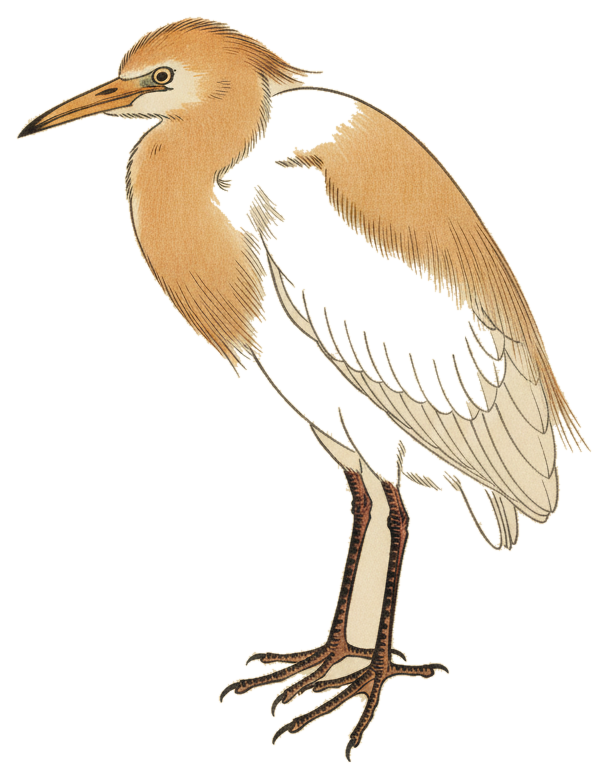
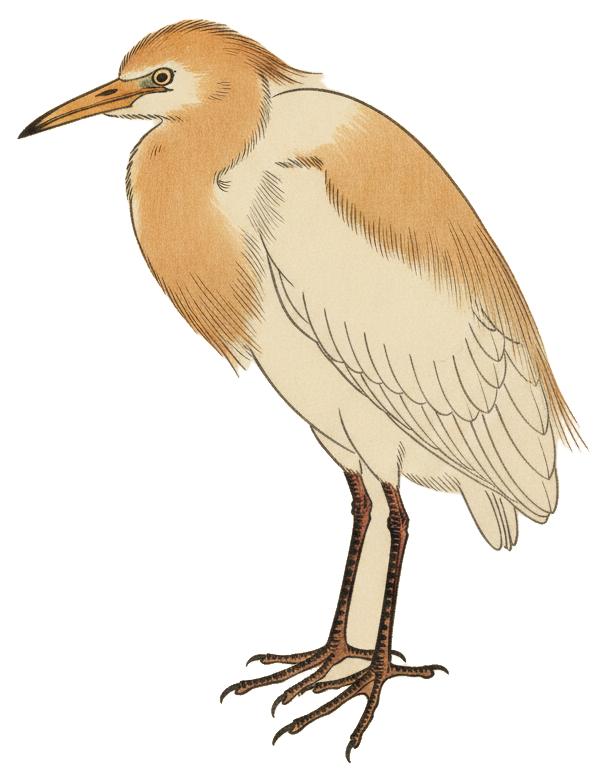
Guard the outline cutout with a coverage check
Reported: transparent body on the perched Cattle Egret. Confirmed - a
regression I introduced with the outline silhouette one commit ago.

What happened
-------------
The ink contour on that illustration has a gap. The border-seeded fill leaked
through it and ate the bird's white breast, belly and wing panel; only the
darker buff areas held the line. The result was a moth-eaten bird whose total
area still looked plausible, so the area-ratio guard passed it at 0.72, well
inside its [0.5, 2.0] band.

Area cannot see this failure. Coverage can: the outline kept only 67% of what
the matting model called bird, where every sound cut kept 95-100%.

  anthus-novaeseelandiae  1.000   outline
  malurus-lamberti-2      0.999   outline
  malurus-lamberti        0.996   outline
  bubulcus-ibis-2         0.993   outline
  ardea-intermedia-2      0.953   outline (correctly trims the neck/wing pocket)
  bubulcus-ibis           0.674   REJECTED -> matte + colour repair

build_alpha now requires >=90% coverage. Trimming genuine over-inclusion is
still allowed - that is the outline being right and the matte being wrong -
but losing a tenth of the body means a leak. On rejection it falls back to
the matting model plus the raise-only colour repair, which cannot restore
transparency but also cannot punch holes: the safe direction to fail in.

Review process, corrected
-------------------------
This slipped through because it was reviewed in a 340px contact-sheet cell,
[…]

diff --git a/avian/frontend/apt.js b/avian/frontend/apt.js
@@ -2,7 +2,8 @@
   var PLACEHOLDER = [{ "sci": "Calypte anna", "com": "Anna's Hummingbird", "featured": true }, { "sci": "Passer domesticus", "com": "House Sparrow" }, { "sci": "Haemorhous mexicanus", "com": "House Finch" }, { "sci": "Turdus migratorius", "com": "American Robin" }, { "sci": "Zenaida macroura", "com": "Mourning Dove" }, { "sci": "Spinus psaltria", "com": "Lesser Goldfinch" }, { "sci": "Zonotrichia leucophrys", "com": "White-crowned Sparrow" }, { "sci": "Aphelocoma californica", "com": "California Scrub-Jay" }, { "sci": "Mimus polyglottos", "com": "Northern Mockingbird" }, { "sci": "Sayornis nigricans", "com": "Black Phoebe" }, { "sci": "Larus occidentalis", "com": "Western Gull" }, { "sci": "Corvus brachyrhynchos", "com": "American Crow" }];
   // Bumped whenever the offline sketch build changes, so the browser
   // doesn't keep a stale cache after we regenerate the sketches.
-  var SKETCH_VERSION = 'act4'; // act4: silhouettes taken from the ink outline, fixing both holes in pale bodies and
+  var SKETCH_VERSION = 'act5'; // act5: outline fill guarded by a coverage check - it had leaked through a gap in the
+  // Cattle Egret's contour and eaten its white breast. act4: silhouettes from the ink outline, fixing holes in pale bodies and
   // background wrongly kept as body. act3: alpha repair - holes through pale bodies (chests of
   // the three flight-pose egrets/fairywren). act2: +5 ACT gap species (403 total) - Australasian Pipit,
   // Cattle Egret, Variegated Fairywren, Intermediate Egret, Barn Owl. act1: AU-VIC bundle (398 species)
@@ -13,7 +14,7 @@
   // equivalent to a global cache purge for /api/img. (caches.default
   // .delete() in the worker only affects ONE colo at a time, so a
   // versioned URL is the only reliable way to invalidate everywhere.)
-  var IMG_VERSION = 'act4'; // act4: outline-based re-cut. act3: pale-body alpha repair re-cut. act2: +5 ACT gap species; Intermediate Egret and Australasian Pipit flight
+  var IMG_VERSION = 'act5'; // act5: Cattle Egret re-cut. act4: outline-based re-cut. act3: pale-body alpha repair re-cut. act2: +5 ACT gap species; Intermediate Egret and Australasian Pipit flight
   // pose re-rendered. act1: every illustration replaced with the AU-VIC set, so drop every cached copy.
 
   // ---- Sliding pill helper ----

diff --git a/avian/scripts/cutout.py b/avian/scripts/cutout.py
@@ -68,10 +68,20 @@ def ink_silhouette(rgb, margin: float = 8.0):
 def build_alpha(rgb, matte, margin: float = 8.0, tol: float = 42.0):
     """Final alpha: outline silhouette when it is plausible, else matte repair.
 
-    The outline fill is trusted only if it agrees with the matting model on
-    overall area. If the ink contour has a gap the fill leaks into the body
-    and collapses to a few strokes, which the area check catches; in that
-    case we fall back to the matting model plus the raise-only colour repair.
+    The outline fill is trusted only if it keeps nearly all of what the
+    matting model called bird. Where the ink contour has a gap, the fill leaks
+    through it and eats whatever pale plumage lies beyond - a cattle egret's
+    white breast and belly, say, while the darker buff areas hold the line.
+    The result is a moth-eaten bird whose *total area* can still look
+    reasonable, so area alone does not catch it: coverage does.
+
+    Trimming genuine over-inclusion is expected and allowed (the outline is
+    right and the matte was wrong), so the bar is set to tolerate a modest
+    loss but reject a leak. Measured on this library: sound cuts keep
+    0.95-1.00 of the matte silhouette, a leak kept 0.67.
+
+    On rejection we fall back to the matting model plus the raise-only colour
+    repair, which cannot restore transparency but also cannot punch holes.
 
     Returns (alpha, mode, filled, cleared).
     """
@@ -80,11 +90,14 @@ def build_alpha(rgb, matte, margin: float = 8.0, tol: float = 42.0):
     from PIL import Image, ImageFilter
 
     bird = ink_silhouette(rgb, margin)
-    matte_area = int((matte > 127).sum())
+    matte_mask = matte > 127
+    matte_area = int(matte_mask.sum())
     ratio = bird.sum() / max(matte_area, 1)
-    if not (0.5 <= ratio <= 2.0):
+    coverage = float((bird & matte_mask).sum()) / max(matte_area, 1)
+    if coverage < 0.90 or ratio > 2.0:
         alpha, filled = repair_alpha(rgb, matte, tol)
-        return alpha, f"matte+repair (outline ratio {ratio:.2f})", filled, 0
+        return (alpha, f"matte+repair (outline coverage {coverage:.2f})",
+                filled, 0)
 
     filled = int(((matte < 128) & bird).sum())
     cleared = int(((matte > 128) & ~bird).sum())

diff --git a/RECONCILIATION.md b/RECONCILIATION.md
@@ -6,7 +6,7 @@ Canberra / Australian Capital Territory deployment of
 illustration bundle.
 
 **Status: complete. 5 gap species generated, cut out, verified, merged and
-mask-rebuilt. 403 species / 806 illustrations, `act4`.**
+mask-rebuilt. 403 species / 806 illustrations, `act5`.**
 
 **Gemini spend: ~$0.48.** 12 images generated (10 initial + 2 regenerations)
 at 1290 output tokens each, $30/1M → $0.464, plus ~23 verification vision
@@ -453,6 +453,17 @@ for it". The defect was caught on visual review over a contrasting ground.
 **Compositing over saturated magenta is the check that works**; alpha
 statistics alone are not sufficient.
 
+And it has to be done at **full resolution**. The Cattle Egret leak above was
+reviewed in a 340 px contact-sheet cell and passed, because at that scale the
+holes blend into the surrounding brushwork. It was obvious the moment the
+illustration was viewed at its native size. Contact sheets are for spotting
+*which* image to look at, never for clearing one.
+
+An automated enclosed-hole count (`binary_fill_holes(alpha) & ~alpha`) is
+useful as a pointer but is not a verdict either: it flags legitimate
+anatomy — the space between a heron's leg and its belly is genuinely enclosed
+background and correctly transparent. Every flag needs an eye on it.
+
 #### The second defect: background kept as body
 
 A colour-based repair fixed the holes but could not fix the mirror-image
@@ -483,12 +494,30 @@ This is correct precisely where colour fails: the outline is unambiguous even
 when plumage and ground are the same colour. It fixes both defects at once —
 holes are filled *and* wrongly-kept background is cleared.
 
-**Guarded, not blindly trusted.** If the ink contour has a gap, the fill leaks
-into the body and collapses to a few strokes. `build_alpha` compares its area
-against the matting model's and falls back to matte-plus-colour-repair if the
-ratio leaves [0.5, 2.0]. Across the seven illustrations re-cut from their original renders
-the ratio ran 0.72–1.06; the two that fall back are ones whose pre-cutout
-original is not in git.
+**Guarded — and the first guard was not good enough.** If the ink contour has
+a gap, the fill leaks through it and eats whatever pale plumage lies beyond.
+The first guard compared total area against the matting model's and accepted
+anything in [0.5, 2.0]. That passed a leak on the perched **Cattle Egret** at
+0.72, which cost it most of its white breast, belly and wing panel while the
+darker buff areas held the line — a moth-eaten bird whose *total area* still
+looked plausible. Area cannot see this; **coverage** can.
+
+The guard now requires the outline silhouette to retain **≥90% of what the
+matting model called bird**. Trimming genuine over-inclusion is still allowed
+— the outline is right and the matte was wrong — but losing a tenth of the
+body means a leak. Measured across this library:
+
+| Illustration | Coverage | Outcome |
+|---|---|---|
+| `anthus-novaeseelandiae` | 1.000 | outline |
+| `malurus-lamberti-2` | 0.999 | outline |
+| `malurus-lamberti` | 0.996 | outline |
+| `bubulcus-ibis-2` | 0.993 | outline |
+| `ardea-intermedia-2` | 0.953 | outline (trimmed the neck/wing pocket) |
+| **`bubulcus-ibis`** | **0.674** | **rejected → matte + colour repair** |
+
+On rejection the fallback cannot restore transparency, but it also cannot
+punch holes — the safe direction to fail in.
 
 `scipy` was added to `requirements.txt` for connected components and hole
 filling.
